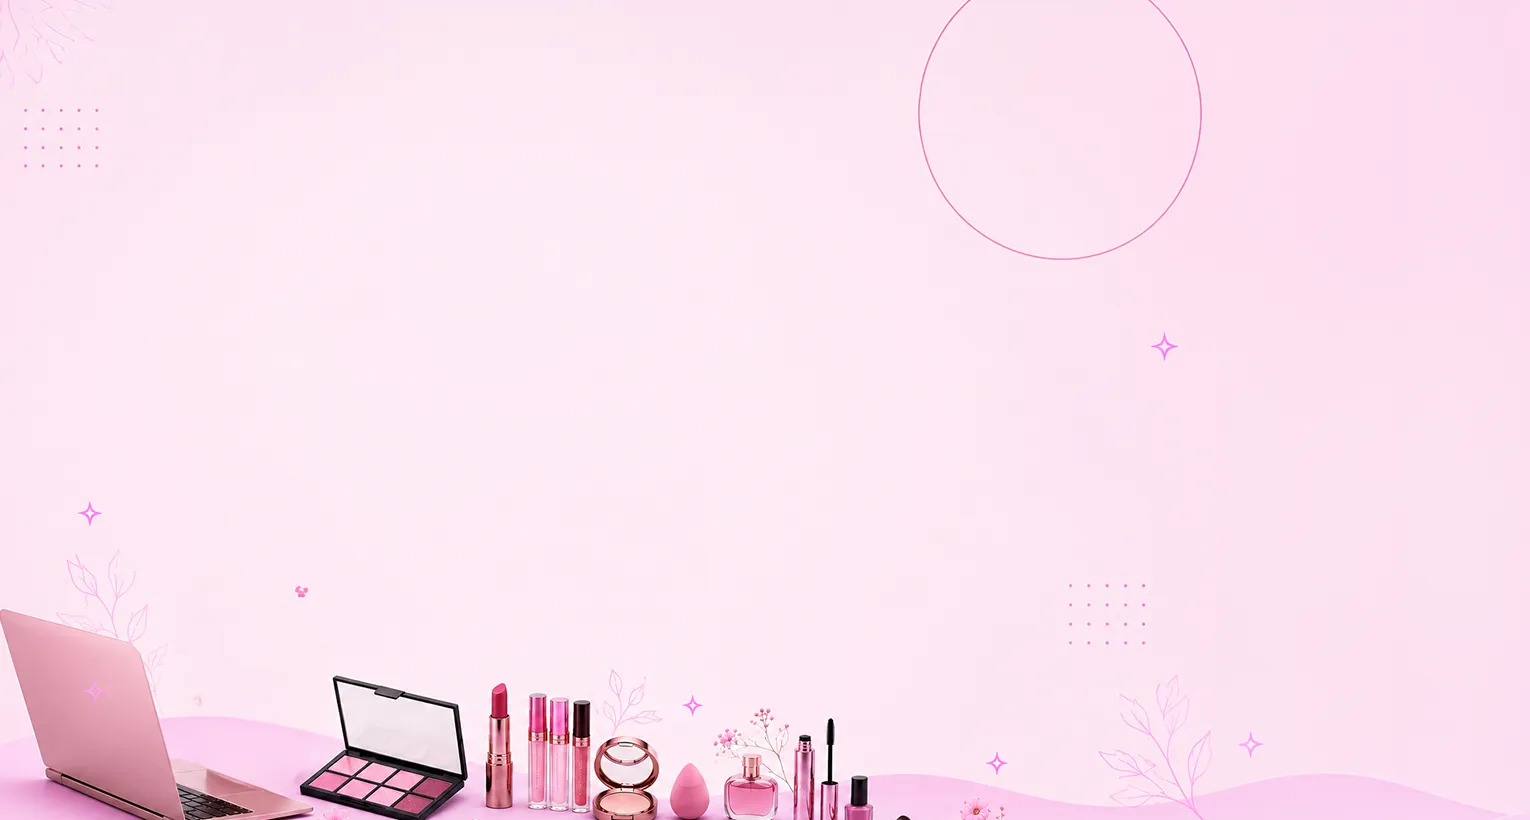
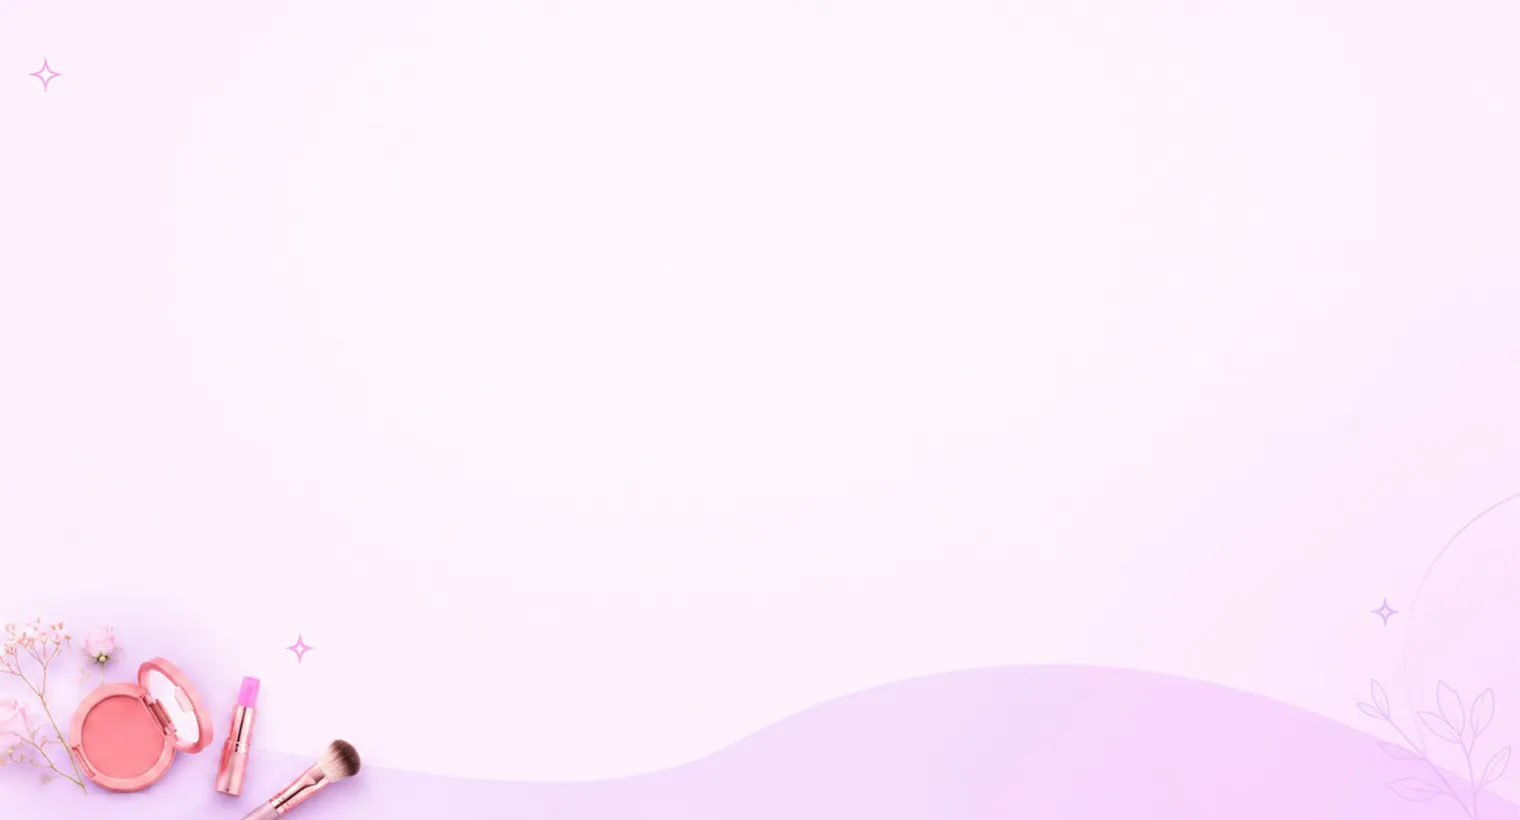
changes

diff --git a/public/css/admin.css b/public/css/admin.css
@@ -1,4 +1,4 @@
-@import url('https://fonts.googleapis.com/css2?family=Outfit:wght@100..900&display=swap');
+@import url('https://fonts.googleapis.com/css2?family=Playfair+Display:ital,wght@0,400..900;1,400..900&display=swap');
 @import url('https://fonts.googleapis.com/css2?family=Playfair+Display:ital,wght@0,400..900;1,400..900&display=swap');
 
 :root {
@@ -58,7 +58,7 @@ body {
 	font-family: Inter;
 }
 body .font-heading {
-  font-family: "Outfit", sans-serif;
+  font-family: "Playfair Display", sans-serif;
 }
 .font-serif {
 	font-family: "Playfair Display", serif;
@@ -1259,6 +1259,7 @@ section {
 }
 .footer2 {
     padding: 80px 0 0;
+	background-color: #fdfbff;
 }
 .footer-links {
     list-style: none;
@@ -1275,6 +1276,7 @@ section {
 	font-size: 14px;
 	border-top: 1px solid var(--border-color);
 	padding: 15px 0;
+	background-color: #fdfbff;
 }
 .service-toggle{
     display:flex;
@@ -8014,7 +8016,7 @@ i.person-gear::before{
 }
 
 .abt-img-box {
-    height: 403px;
+    /* height: 403px; */
     overflow: hidden;
     padding-bottom: 0px;
     position: absolute;

diff --git a/resources/views/website/home.blade.php b/resources/views/website/home.blade.php
@@ -202,33 +202,58 @@ Home
         <div class="row got-g-4">
           <div class="col-sm-6" data-aos="fade-up">
             <div class="feature-card">
-              <div class="f-icon fi-purple-deep got-text-primary"><i class="fas fa-search"></i></div>
-              <h5 class="font-heading salon-detail">Premium Salon Jobs</h5>
-              <p class="got-text-muted got-small">Customized strategies tailored for your career growth in the beauty industry.</p>
+              <div class="f-icon fi-purple-deep got-text-primary">                            
+                <svg width="26" height="26" viewBox="0 0 24 24" fill="none" stroke="currentColor" stroke-width="1.5" stroke-linecap="round" stroke-linejoin="round">
+                                <circle cx="6" cy="6" r="3"/>
+                                <circle cx="6" cy="18" r="3"/>
+                                <line x1="20" y1="4" x2="8.12" y2="15.88"/>
+                                <line x1="14.47" y1="14.48" x2="20" y2="20"/>
+                                <line x1="8.12" y1="8.12" x2="12" y2="12"/>
+                </svg></div>
+              <h5 class="font-heading salon-detail">Hair Stylists</h5>
+              <p class="got-text-muted got-small">Professional hair cutting, styling, coloring, and hair care services for every occasion.</p>
             </div>
           </div>
           <div class="col-sm-6" data-aos="fade-up" data-aos-delay="100">
             <div class="feature-card got-shadow-sm">
-              <div class="f-icon fi-rose"><i class="fas fa-star"></i>
+              <div class="f-icon fi-rose">
+                    <svg width="26" height="26" viewBox="0 0 24 24" fill="none" stroke="currentColor" stroke-width="1.5" stroke-linecap="round" stroke-linejoin="round">
+                        <path d="M18 11V6a2 2 0 0 0-4 0v5"/>
+                        <path d="M14 10V4a2 2 0 0 0-4 0v6"/>
+                        <path d="M10 10.5V3a2 2 0 0 0-4 0v9"/>
+                        <path d="M6 13V8a2 2 0 0 0-4 0v8c0 4.42 3.58 8 8 8h2c4.42 0 8-3.58 8-8v-5a2 2 0 0 0-2-2 2 2 0 0 0-2 2v2"/>
+                        <circle cx="12" cy="15" r="1.5"/>
+                    </svg>
               </div>
-              <h5 class="font-heading salon-detail">Top Stylist Careers</h5>
-              <p class="got-text-muted got-text-muted got-text-muted got-small got-mb-0">Access exclusive career opportunities from luxury salon chains.</p>
+              <h5 class="font-heading salon-detail">Mehndi Artist</h5>
+              <p class="got-text-muted got-text-muted got-text-muted got-small got-mb-0">Creative and intricate mehndi designs for weddings, festivals, and special events</p>
             </div>
-          </div>
+          </div> 
           <div class="col-sm-6" data-aos="fade-up" data-aos-delay="200">
             <div class="feature-card got-shadow-sm">
-              <div class="f-icon fi-purple-deep"><i
-                  class="fas fa-map-marker-alt"></i></div>
-              <h5 class="font-heading salon-detail">Global Locations</h5>
-              <p class="got-text-muted got-text-muted got-text-muted got-small got-mb-0">Find your perfect place in top beauty capitals around the world.</p>
+              <div class="f-icon fi-purple-deep">
+                  <svg width="26" height="26" viewBox="0 0 24 24" fill="none" stroke="currentColor" stroke-width="1.5" stroke-linecap="round" stroke-linejoin="round">
+                        <path d="M12 3l1.5 4.5L18 9l-4.5 1.5L12 15l-1.5-4.5L6 9l4.5-1.5L12 3z"/>
+                        <path d="M19 14l1 3 3 1-3 1-1 3-1-3-3-1 3-1 1-3z"/>
+                        <path d="M5 15l.5 1.5L7 17l-1.5.5L5 19l-.5-1.5L3 17l1.5-.5L5 15z"/>
+              </svg>
+                          </div>
+              <h5 class="font-heading salon-detail">Skin Care Specialist</h5>
+              <p class="got-text-muted got-text-muted got-text-muted got-small got-mb-0">Expert skincare treatments focused on healthy, glowing, and rejuvenated skin.</p>
             </div>
           </div>
           <div class="col-sm-6" data-aos="fade-up" data-aos-delay="300">
             <div class="feature-card got-shadow-sm">
-              <div class="f-icon fi-rose"><i
-                  class="fas fa-shield-alt"></i></div>
-              <h5 class="font-heading salon-detail">Verified Employers</h5>
-              <p class="got-text-muted got-text-muted got-text-muted got-small got-mb-0">We get every establishment to ensure a safe and professional workspace.</p>
+              <div class="f-icon fi-rose">
+                  <svg width="26" height="26" viewBox="0 0 24 24" fill="none" stroke="currentColor" stroke-width="1.5" stroke-linecap="round" stroke-linejoin="round">
+                      <rect x="7" y="11" width="10" height="11" rx="2"/>
+                      <path d="M10 11V4a1 1 0 0 1 1-1h2a1 1 0 0 1 1 1v7"/>
+                      <line x1="7" y1="16" x2="17" y2="16"/>
+                      <line x1="12" y1="7" x2="12" y2="11"/>
+                  </svg>
+                </div>
+              <h5 class="font-heading salon-detail">Nail Artist</h5>
+              <p class="got-text-muted got-text-muted got-text-muted got-small got-mb-0">Beautiful nail art, manicures, and nail care services tailored to your style.</p>
             </div>
           </div>
         </div>
@@ -260,7 +285,7 @@ Home
           </div>
         </div>
         <div class="col-lg-6 text-center" data-aos="fade-left" data-aos-delay="400">
-          <img src="images/cta.png" alt="Hire Talent" class="img-fluid rounded-3 shadow-lg animate-float">
+          <img src="images/cta.webp" alt="Hire Talent" class="img-fluid rounded-3 shadow-lg animate-float">
         </div>
       </div>
     </div>
@@ -272,7 +297,7 @@ Home
     <div class="row align-items-center got-g-4">
       <div class="col-lg-6 order-2 order-lg-1" data-aos="fade-right">
         <div class="position-relative got-p-4">
-          <img src="images/talent.png" alt="Showcase Talent" class="img-fluid rounded-3 shadow-lg animate-float">
+          <img src="images/talent.webp" alt="Showcase Talent" class="img-fluid rounded-3 shadow-lg animate-float">
           <div class="talent-floating-badge">
             <div class="d-flex align-items-center gap-2">
               <i class="fa-regular fa-user"></i>
@@ -296,97 +321,6 @@ Home
         </div>
         <a href="{{ route('user.register') }}" class="btn got-btn got-btn-primary btn-primary got-rounded-pill got-py-3 got-fw-bold shine-effect">Create Your Profile</a>
       </div>
-    </div>
-  </div>
-</section>
-<section class="section-space">
-  <div class="container">
-    <div class="text-center mb-4" data-aos="fade-up">
-      <h2 class="fw-bold mb-3 font-heading heading-size">Browse Beauty Specialties</h2>
-      <p class="text-muted">Explore high-demand roles across all sectors of the industry.</p>
-    </div>
-    <div class="card-grid beauty-category">
-      @foreach ($skills as $skill)
-      <div class="card" data-aos="fade-up" data-aos-delay="100">
-        <a href="{{ route('skills.details', ['skillId' => $skill->id]) }} class=" text-decoration-none">
-          {{-- <a href="{{ route('skills.details', ['skillId' => $skill->id]) }}" class="text-decoration-none"></a> --}}
-        <div class="category-card shadow-sm h-100">
-          <div class="cat-icon ci-green">
-            <img src="{{ asset($skill->image) }}" alt="{{ $skill->name }}" class="img-fluid">
-          </div>
-          <h5 class="font-heading">{{ $skill->name }}</h5>
-        </div>
-        </a>
-
-      </div>
-      @endforeach
-
-      {{-- <div class="col-lg-3 col-md-4 col-sm-6" data-aos="fade-up" data-aos-delay="200">
-        <a href="job-list.html?q=Makeup" class="text-decoration-none">
-          <div class="category-card shadow-sm h-100">
-            <div class="cat-icon ci-green"><i class="fas fa-paint-brush"></i></div>
-            <h6 class="font-heading">Makeup Artists</h6>
-          </div>
-        </a>
-      </div>
-      <div class="col-lg-3 col-md-4 col-sm-6" data-aos="fade-up" data-aos-delay="300">
-        <a href="job-list.html?q=Nails" class="text-decoration-none">
-          <div class="category-card shadow-sm h-100">
-            <div class="cat-icon ci-green"><i class="fas fa-hand-sparkles"></i></div>
-            <h6 class="font-heading">Nail Technicians</h6>
-          </div>
-        </a>
-      </div>
-      <div class="col-lg-3 col-md-4 col-sm-6" data-aos="fade-up" data-aos-delay="400">
-        <a href="job-list.html?q=Esthetician" class="text-decoration-none">
-          <div class="category-card shadow-sm h-100">
-            <div class="cat-icon ci-green icon-size">
-              <svg xmlns="http://www.w3.org/2000/svg" version="1.1" xmlns:xlink="http://www.w3.org/1999/xlink" width="31" height="31" x="0" y="0" viewBox="0 0 64 64" style="enable-background:new 0 0 512 512" xml:space="preserve" class="">
-                <g>
-                  <path d="M46.5 22.5v4.693c0 .422-.029.842-.057 1.262 1.719-.22 3.057-1.677 3.057-3.455 0-1.379-1.121-2.5-2.5-2.5zM45.762 35.464l-3.638-4.103c-2.335 1.984-3.854 4.63-4.376 7.575l5.374 1.099zM48.712 38.356l-2.224-2.15-2.36 4.087 2.974.851z" fill="#000000" opacity="1" data-original="#000000" class=""></path>
-                  <path d="M41.798 30.334c.209-.166.58-.193.755.004l2.062 2.325c.576-1.776.885-3.609.885-5.469v-4.7a19.437 19.437 0 0 1-12.14-4.669L32 16.658l-1.36 1.166a19.437 19.437 0 0 1-12.14 4.669v4.7a17.734 17.734 0 0 0 6.689 13.917c1.925 1.541 4.344 2.39 6.811 2.39s4.886-.849 6.811-2.39c.296-.236.589-.491.879-.756l-2.611-.534a.501.501 0 0 1-.395-.56 13.791 13.791 0 0 1 5.114-8.926zm-19.075-3.918a.5.5 0 0 1 .554-.832 4.897 4.897 0 0 0 5.445 0 .499.499 0 1 1 .554.832 5.9 5.9 0 0 1-6.553 0zm9.554 8.168a.5.5 0 1 1-.554.832l-3-2a.499.499 0 0 1 0-.832l.504-.336A5.096 5.096 0 0 0 31.5 28a.5.5 0 0 1 1 0 6.094 6.094 0 0 1-2.6 4.999zm2.446-8.168a.5.5 0 0 1 .554-.832 4.89 4.89 0 0 0 5.445 0 .5.5 0 1 1 .554.832 5.897 5.897 0 0 1-6.553 0z" fill="#000000" opacity="1" data-original="#000000" class=""></path>
-                  <path d="M34.011 17.064A18.43 18.43 0 0 0 46 21.5h1c.429 0 .836.088 1.217.231A5.47 5.47 0 0 0 48.5 20c0-.494-.031-.981-.074-1.464-.805.194-1.622.304-2.437.304-1.663 0-3.313-.4-4.817-1.186l-.403-.211a.5.5 0 0 1 .463-.887l.403.211a9.38 9.38 0 0 0 6.662.778C47.268 10.695 42.033 5.204 35.3 3.832a11.968 11.968 0 0 0 5.923 6.72.5.5 0 1 1-.446.895 12.965 12.965 0 0 1-6.589-7.785A16.604 16.604 0 0 0 32 3.5c-.639 0-1.266.045-1.886.116a17.108 17.108 0 0 0 4.24 7.03.5.5 0 0 1-.708.708 18.11 18.11 0 0 1-4.531-7.585c-1.22.216-2.399.553-3.511 1.022a42.542 42.542 0 0 0 6.752 10.855zM56.25 46.299c.349.199.753.254 1.138.149a1.49 1.49 0 0 0 .911-.698 1.504 1.504 0 0 0-.549-2.05l-8.228-4.75-1.5 2.599zM17 21.5h1c4.395 0 8.652-1.575 11.99-4.436l1.313-1.125a43.866 43.866 0 0 1-1.976-2.541l-.527.702a8.541 8.541 0 0 1-6.8 3.4.5.5 0 0 1 0-1 7.535 7.535 0 0 0 6-3l.6-.8a.503.503 0 0 1 .146-.131 43.153 43.153 0 0 1-1.401-2.188l-.572.567A5.33 5.33 0 0 1 23 12.5a.5.5 0 0 1 0-1 4.336 4.336 0 0 0 3.07-1.263l.752-.745a43.89 43.89 0 0 1-2.12-4.268C19.259 7.924 15.5 13.524 15.5 20c0 .592.097 1.171.284 1.73.38-.142.787-.23 1.216-.23zM17.546 28.454a18.85 18.85 0 0 1-.046-1.261V22.5H17a2.503 2.503 0 0 0-2.5 2.5c0 1.774 1.332 3.229 3.046 3.454zM52.753 51.704l-5.748-1.438a9.903 9.903 0 0 1-7.432-8.492c-.046.038-.092.08-.138.117C37.334 43.573 34.693 44.5 32 44.5s-5.334-.927-7.436-2.608c-.033-.026-.064-.055-.096-.082-.324 4.061-3.066 7.491-7.029 8.68l-6.591 1.977A8.85 8.85 0 0 0 4.514 60.5H59.5v-.154a8.894 8.894 0 0 0-6.747-8.642zM44 55.5h-3.528c-2.849 0-5.7.674-8.248 1.947a.505.505 0 0 1-.448 0 18.531 18.531 0 0 0-8.249-1.947H21a.5.5 0 0 1 0-1h2.528c2.92 0 5.844.671 8.472 1.942a19.558 19.558 0 0 1 8.472-1.942H44a.5.5 0 0 1 0 1z" fill="#000000" opacity="1" data-original="#000000" class=""></path>
-                  <circle cx="55" cy="31" r="2.124" fill="#000000" opacity="1" data-original="#000000" class=""></circle>
-                  <circle cx="14" cy="41" r="2.124" fill="#000000" opacity="1" data-original="#000000" class=""></circle>
-                </g>
-              </svg>
-            </div>
-            <h6 class="font-heading">Esthetician</h6>
-          </div>
-        </a>
-      </div>
-      <div class="col-lg-3 col-md-4 col-sm-6" data-aos="fade-up" data-aos-delay="100">
-        <a href="job-list.html?q=Manager" class="text-decoration-none">
-          <div class="category-card shadow-sm h-100">
-            <div class="cat-icon ci-green"><i class="fas fa-user-tie"></i></div>
-            <h6 class="font-heading">Salon Managers</h6>
-          </div>
-        </a>
-      </div>
-      <div class="col-lg-3 col-md-4 col-sm-6" data-aos="fade-up" data-aos-delay="200">
-        <a href="job-list.html?q=Spa" class="text-decoration-none">
-          <div class="category-card shadow-sm h-100">
-            <div class="cat-icon ci-green"><i class="fas fa-spa"></i></div>
-            <h6 class="font-heading">Spa Therapists</h6>
-          </div>
-        </a>
-      </div>
-      <div class="col-lg-3 col-md-4 col-sm-6" data-aos="fade-up" data-aos-delay="300">
-        <a href="job-list.html?q=Lash" class="text-decoration-none">
-          <div class="category-card shadow-sm h-100">
-            <div class="cat-icon ci-green"><i class="fas fa-eye"></i></div>
-            <h6 class="font-heading">Lash Technicians</h6>
-          </div>
-        </a>
-      </div>
-      <div class="col-lg-3 col-md-4 col-sm-6" data-aos="fade-up" data-aos-delay="400">
-        <a href="job-list.html?q=Massage" class="text-decoration-none">
-          <div class="category-card shadow-sm h-100">
-            <div class="cat-icon ci-green"><i class="fas fa-hot-tub"></i></div>
-            <h6 class="font-heading">Massage Therapists</h6>
-          </div>
-        </a>
-      </div> --}}
     </div>
   </div>
 </section>